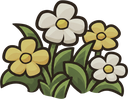
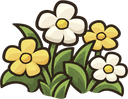
art: brighter map (mute val 1.06, sat 0.62)

diff --git a/tools/prepare_art.py b/tools/prepare_art.py
@@ -72,7 +72,7 @@ def key_out(im):
     return Image.fromarray(a.astype("uint8"), "RGBA")
 
 # 地图 / 建筑 / 树石摆设统一"压灰"，和低饱和的角色画风对上（1.0 = 不处理）
-MUTE_SAT, MUTE_VAL, MUTE_WARM = 0.55, 0.92, 0.10
+MUTE_SAT, MUTE_VAL, MUTE_WARM = 0.62, 1.06, 0.08
 MUTED = ("map/", "resources/", "decor/")   # 建筑 / UI 是按角色画风新画的，本来就低饱和，不再压
 
 def mute(im):
